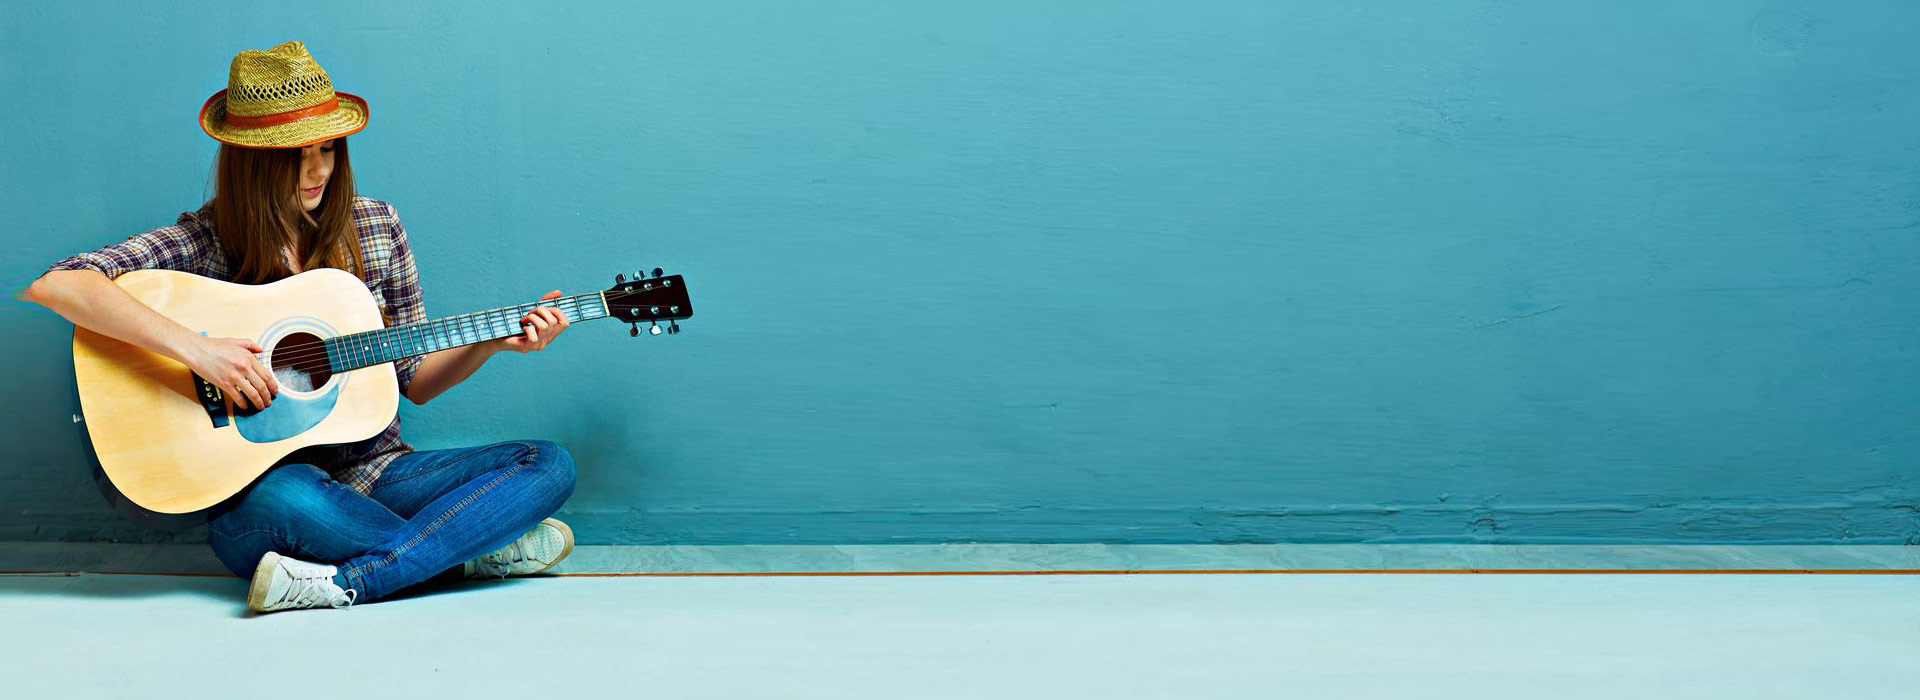
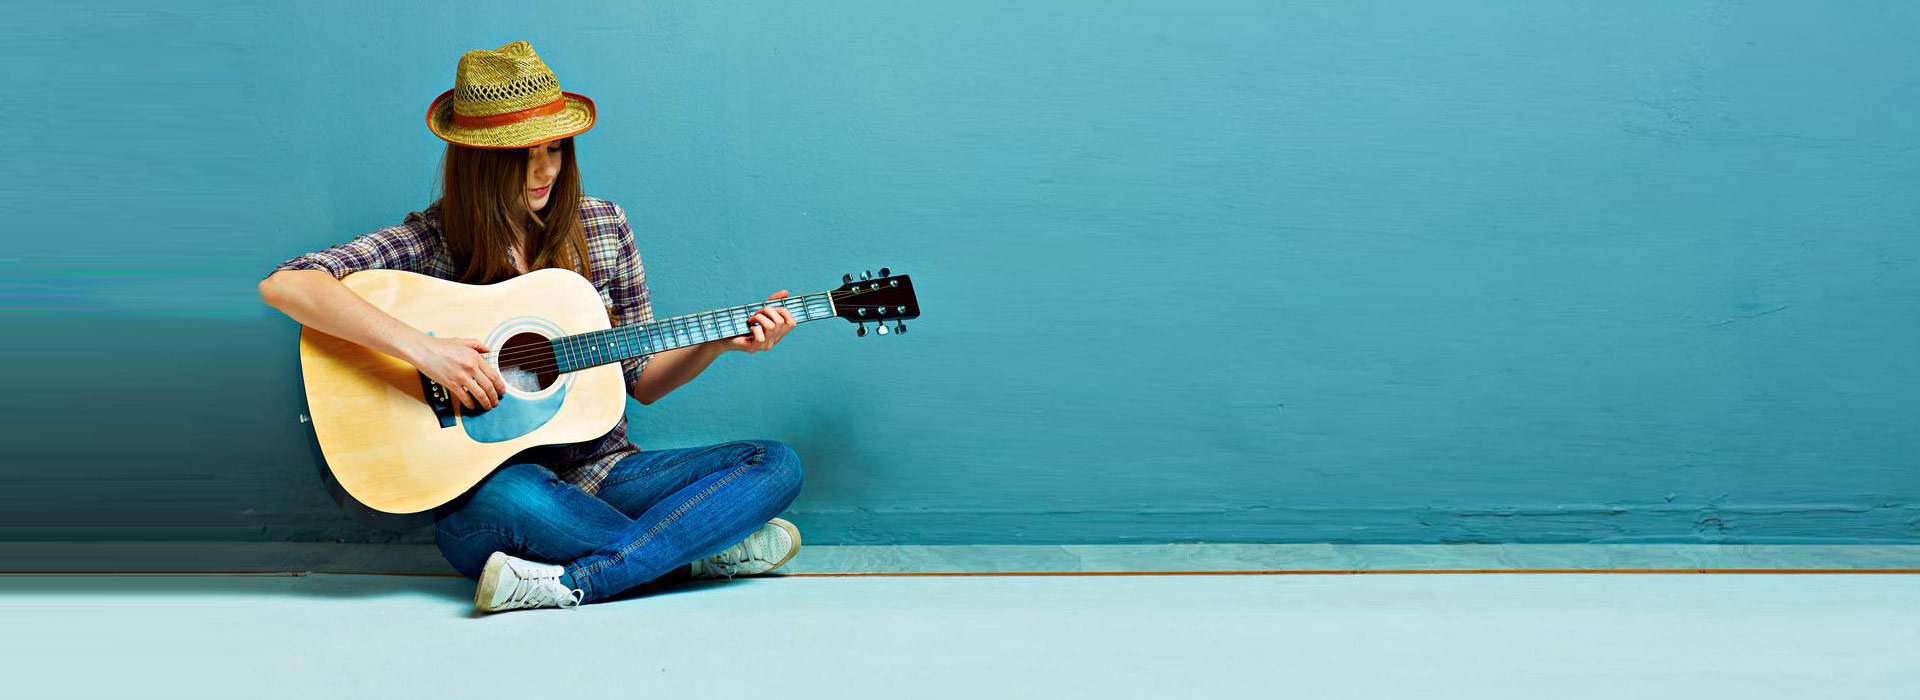
Add script to slider

Changed region(s): [[0.0, 0.06, 1.0, 0.9], [0.9688, 0.81, 1.0, 0.84]]

diff --git a/js/script.js b/js/script.js
@@ -1,4 +1,4 @@
-//menu
+//MENU
 $('#hamburger').click(function(){
     $('.navbar__menu--main').slideToggle();
 });
@@ -10,3 +10,26 @@ $('.navbar__link').click(function(){
 $(window).resize(function(){
     if($(window).width() > 992) $('.navbar__menu--main').removeAttr('style');
 });
+
+//SLIDER
+//progress
+var slides = $('.slider__item');
+var index = 0;
+var progress = $('.slider__progress');
+function changeSlide() {
+    progress.css({
+        transition: 'none',
+        width: 0+'%'
+    });
+    slides.eq(index).addClass('slider__item--hide');
+    (index == slides.length - 1) ? index = 0 : index += 1;
+    slides.eq(index).removeClass('slider__item--hide');
+    progressBar();
+}
+function progressBar() {
+    progress.animate({width: 100+'%'},5000,'linear',function(){
+        changeSlide();
+    });
+}
+progressBar();
+

diff --git a/index.html b/index.html
@@ -70,6 +70,9 @@
                     <div class="slider__item">
                         <img class="slider__image" src="img/slide0.jpg" alt="">
                     </div>
+                    <div class="slider__item slider__item--hide">
+                            <img class="slider__image" src="img/slide1.jpg" alt="">
+                        </div>
                     <div class="slider__description">
                         <h1 class="title title--big">
                             Let's Rock
@@ -77,6 +80,7 @@
                         </h1>
                         <button class="btn btn--red">discover more</button>
                     </div>
+                    <span class="slider__progress"></span>
                 </div>
             </div>
         </section>

diff --git a/css/style.css b/css/style.css
@@ -234,12 +234,34 @@ img {
   position: absolute;
   bottom: -3px;
 }
+.slider__progress {
+  display: block;
+  width: 0;
+  height: 3px;
+  position: absolute;
+  background: #df001f;
+  bottom: -3px;
+}
+.slider__item--hide {
+  display: none;
+}
+.slider__item {
+  animation: fade 0.5s;
+}
 .icon {
   font-weight: 200;
   font-size: 20px;
   transform: translateY(1px);
   display: inline-block;
   margin-right: 15px;
+}
+@keyframes fade {
+  from {
+    opacity: 0.3;
+  }
+  to {
+    opacity: 1;
+  }
 }
 @media (max-width: 1366px) {
   .navbar__logo {
@@ -378,6 +400,10 @@ img {
     content: "";
     bottom: 0;
     z-index: 1;
+  }
+  .slider__progress {
+    bottom: 0;
+    z-index: 2;
   }
   .title {
     margin-bottom: 15px;

diff --git a/less/style.less b/less/style.less
@@ -210,6 +210,20 @@ img {
         position: absolute;
         bottom: -3px;
     }
+    &__progress {
+        display: block;
+        width: 0;
+        height: 3px;
+        position: absolute;
+        background: @color-primary;
+        bottom: -3px;
+    }
+    &__item--hide {
+        display: none;
+    }
+    &__item {
+        animation: fade 0.5s;
+    }
 
 }
 .icon {
@@ -218,6 +232,16 @@ img {
     transform: translateY(1px);
     display: inline-block;
     margin-right: 15px;
+}
+
+//ANIMATE
+
+@keyframes fade {
+    from {
+        opacity: 0.3
+    } to {
+        opacity: 1
+    }
 }
 
 @import 'rwd';

diff --git a/less/rwd.less b/less/rwd.less
@@ -145,6 +145,10 @@
             bottom: 0;
             z-index: 1;
         }
+        &__progress {
+            bottom: 0;
+            z-index: 2;
+        }
     }
     .title {
         margin-bottom: 15px;
